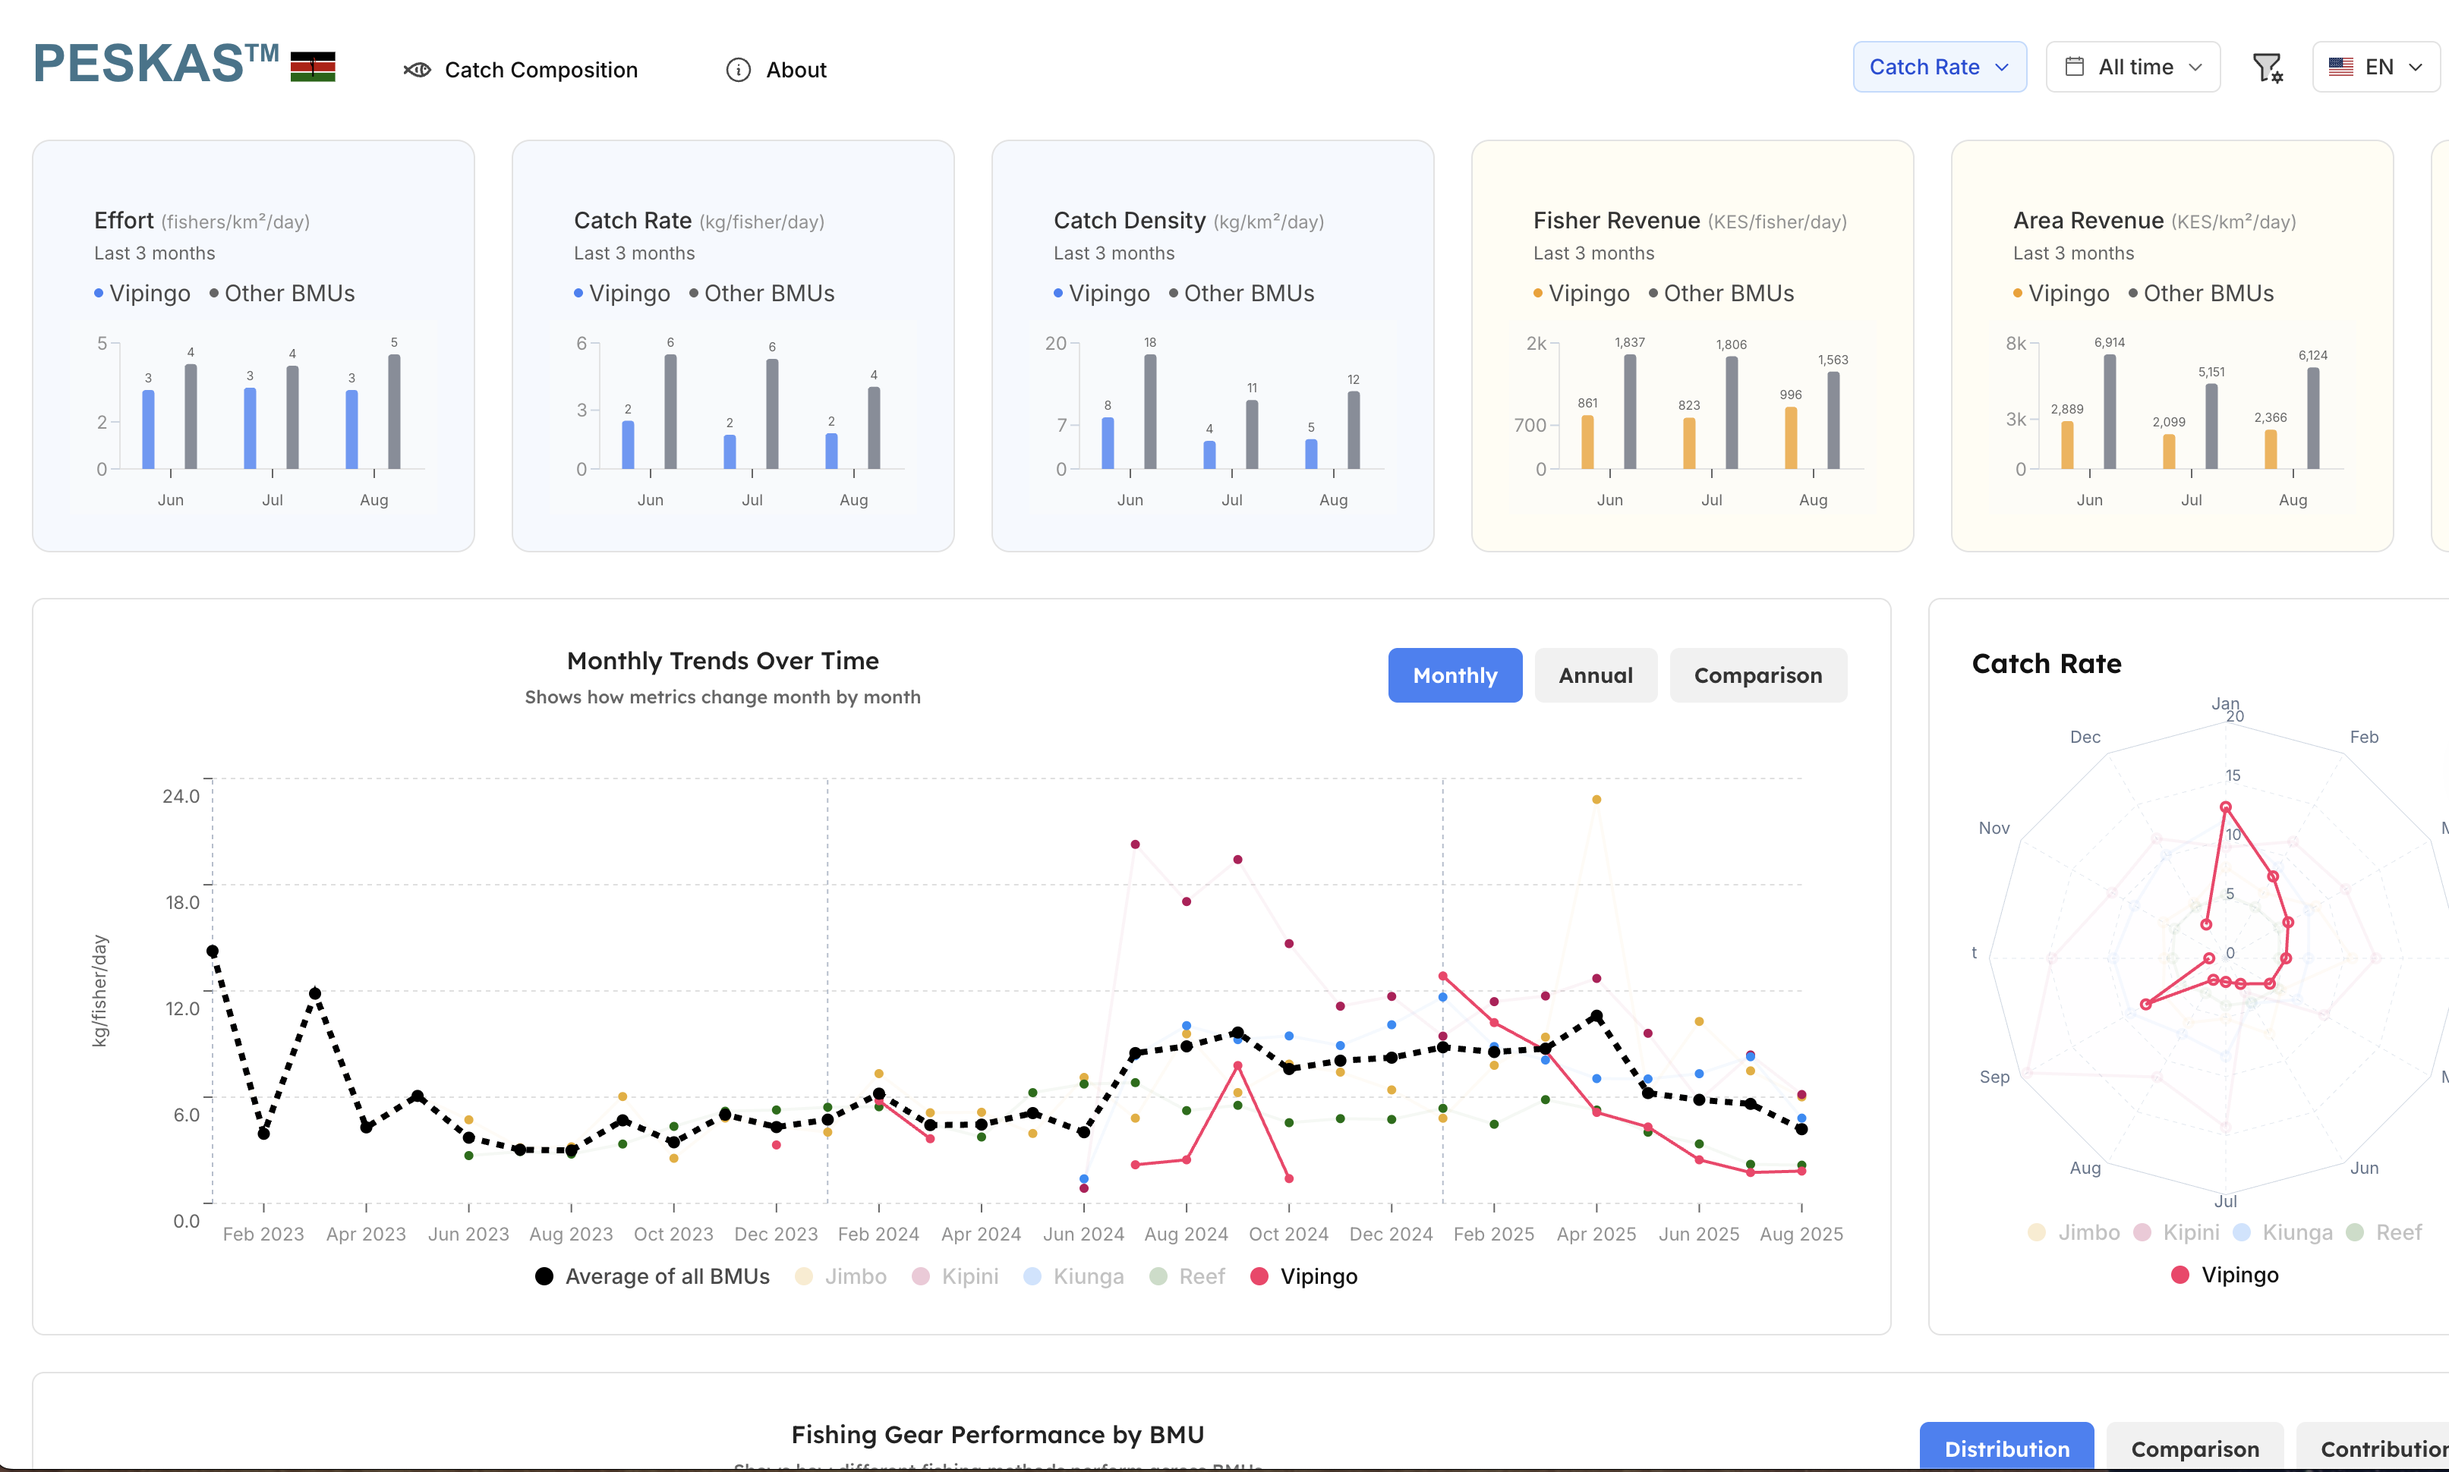
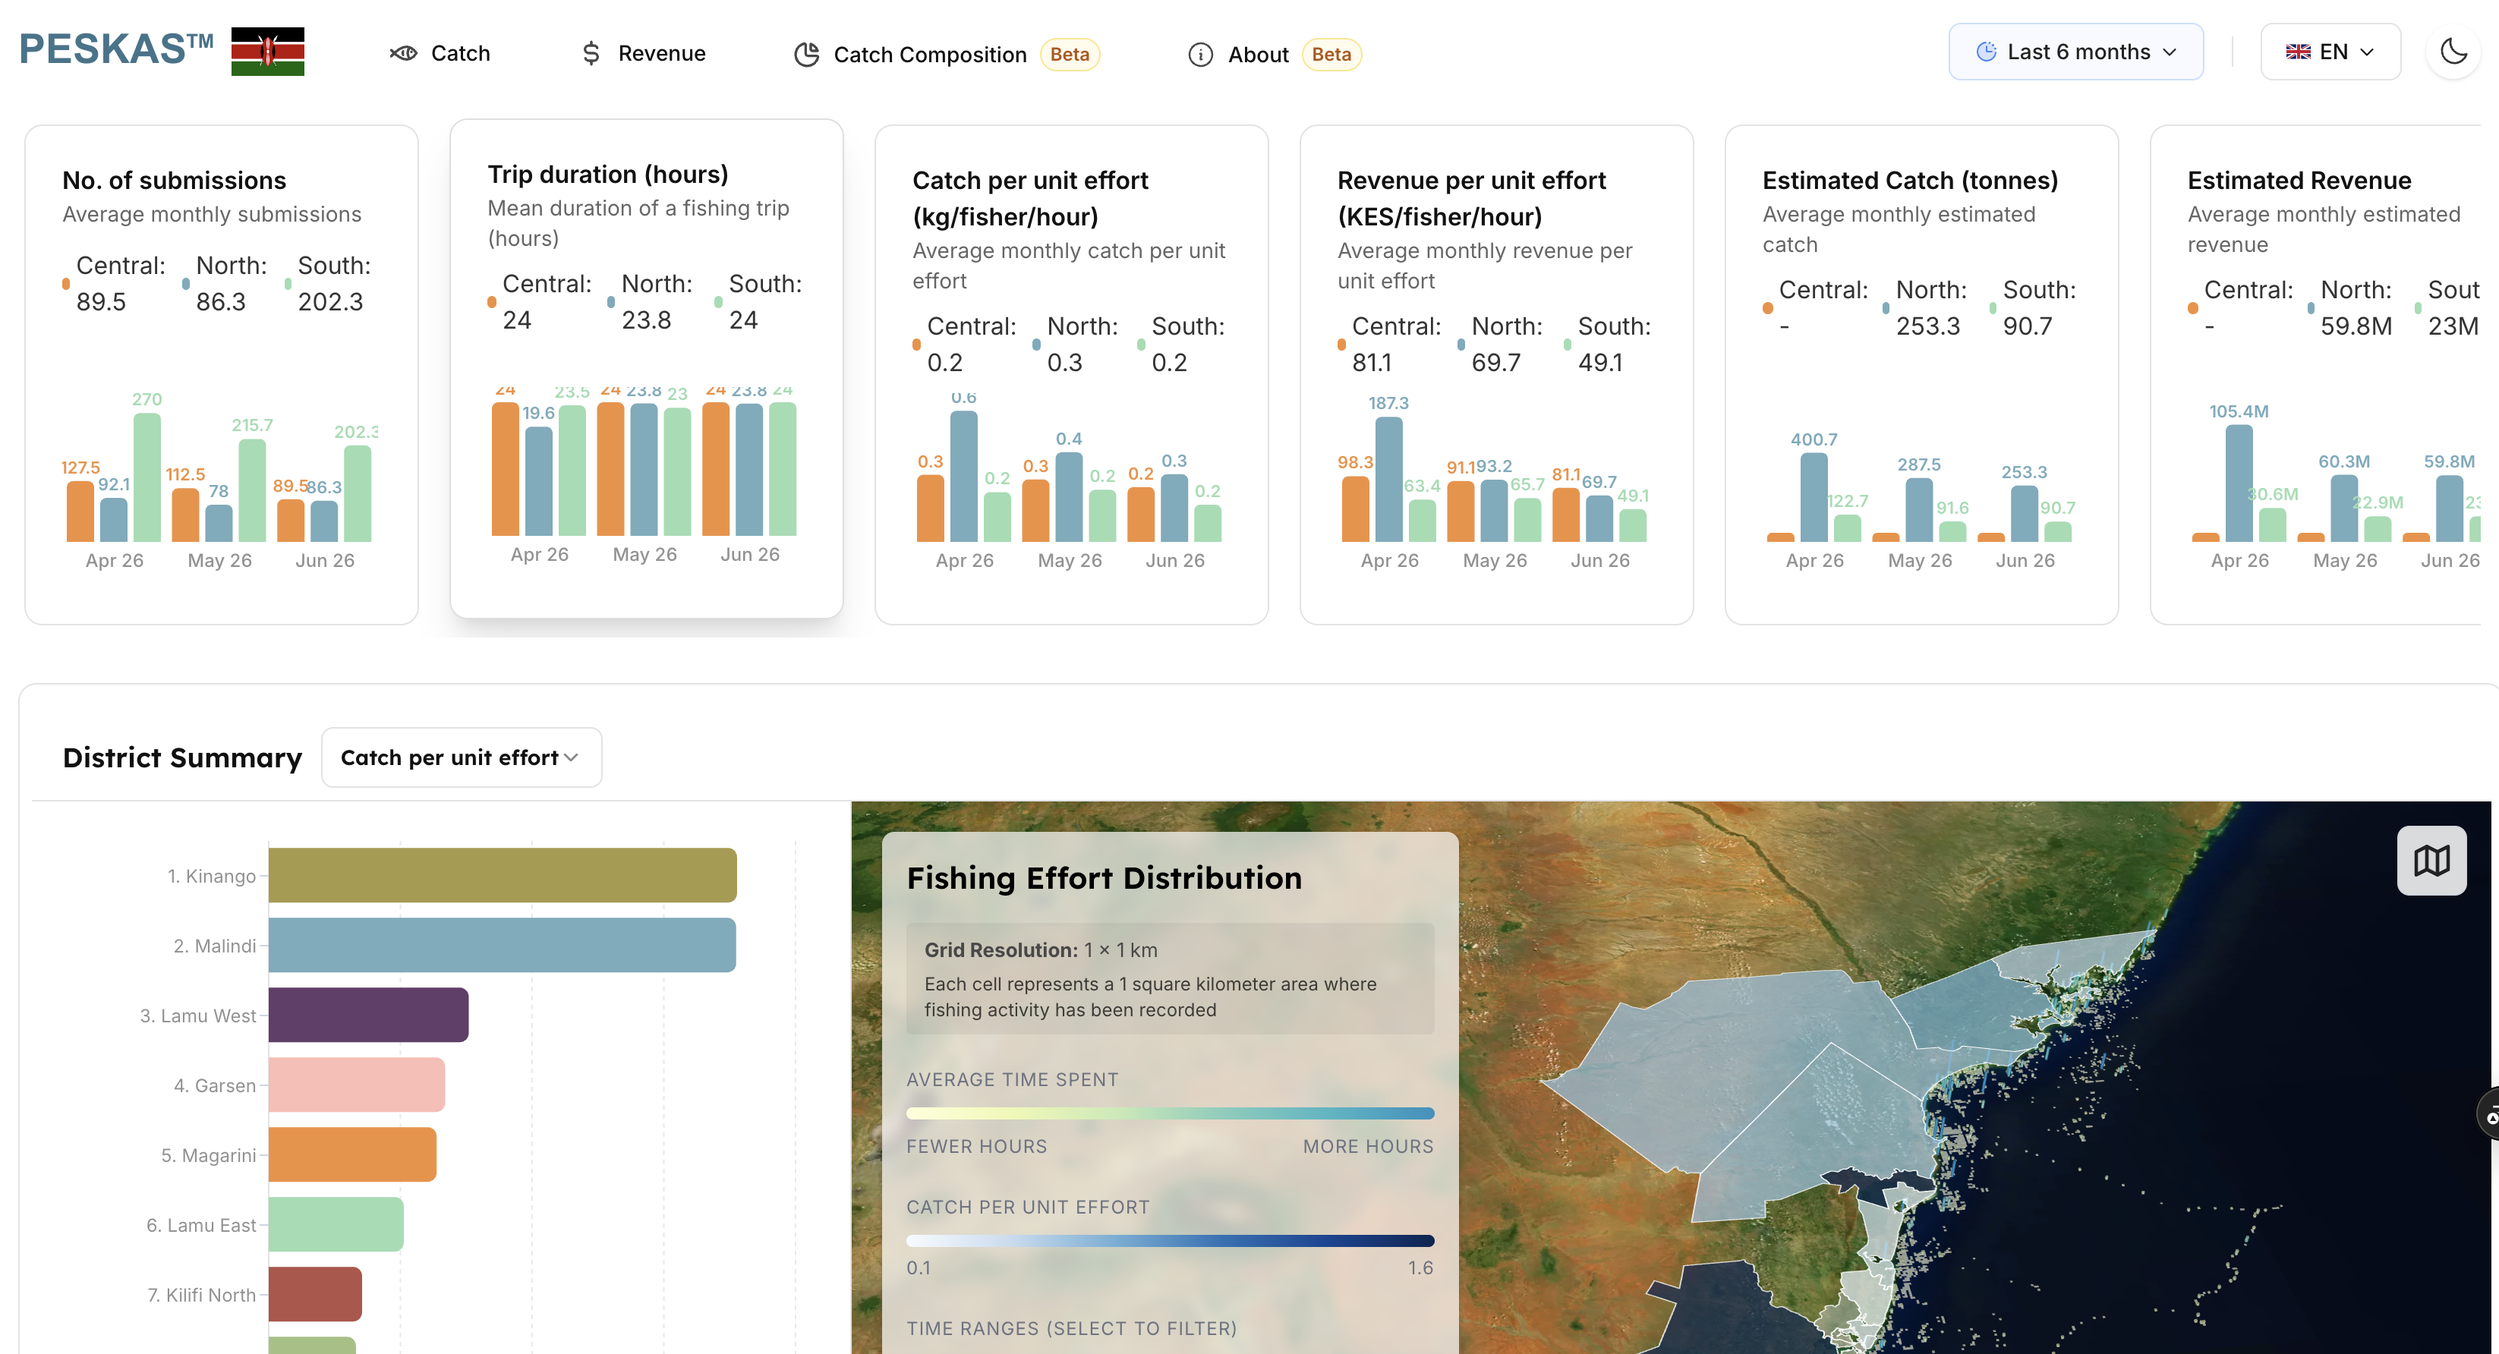
Update Kenya dashboard links across components and JSON files
- Replaced the old Kenya dashboard URL with the new link in Header, Sidebar, regions.json, settings.json, and regions.js for consistency.
- Updated the external links constant in constants.js to reflect the new URL.
- Modified the Kenya dashboard image file, indicating a change in the asset.

diff --git a/components/layout/Header.js b/components/layout/Header.js
@@ -66,7 +66,7 @@ const Header = ({ handleOpen, headerStyle }) => {
                                                     <div className="hr">
                                                         <span />
                                                     </div>
-                                                    <a href="https://digitalfisheries.kenya.peskas.org/en" target="_blank" rel="noopener noreferrer">
+                                                    <a href="https://peskas-dashboard-kenya.vercel.app/en" target="_blank" rel="noopener noreferrer">
                                                         <img src="https://upload.wikimedia.org/wikipedia/commons/4/49/Flag_of_Kenya.svg" alt="Kenyan Flag" width={20} height={13} style={{ marginRight: '5px', verticalAlign: 'middle' }} loading="lazy" />
                                                         Kenya
                                                     </a>

diff --git a/components/layout/Sidebar.js b/components/layout/Sidebar.js
@@ -80,7 +80,7 @@ const Sidebar = ({ openClass }) => {
                                                     <span />
                                                 </li>
                                                 <li>
-                                                    <a href="https://digitalfisheries.kenya.peskas.org/en" target="_blank" rel="noopener noreferrer">
+                                                    <a href="https://peskas-dashboard-kenya.vercel.app/en" target="_blank" rel="noopener noreferrer">
                                                         <img src="https://upload.wikimedia.org/wikipedia/commons/4/49/Flag_of_Kenya.svg" alt="Kenyan Flag" width={20} height={13} style={{ marginRight: '5px', verticalAlign: 'middle' }} loading="lazy" />
                                                         Kenya
                                                     </a>

diff --git a/data/regions.js b/data/regions.js
@@ -17,7 +17,7 @@ export const regions = [
         id: 3,
         title: "Kenya",
         desc: "Part of Peskas' East African expansion, the Kenya implementation focuses on coastal small-scale fisheries. Working with local communities and government partners, this initiative aims to improve fisheries data collection and management practices along Kenya's rich coastal waters, supporting both food security and sustainable livelihoods.",
-        cta: { label: "Open dashboard", href: "https://digitalfisheries.kenya.peskas.org/en" },
+        cta: { label: "Open dashboard", href: "https://peskas-dashboard-kenya.vercel.app/en" },
         image: "assets/imgs/page/homepage1/kenya-dash.png",
     },
     {

diff --git a/lib/constants.js b/lib/constants.js
@@ -17,7 +17,7 @@ export const GA_ENABLED = process.env.NODE_ENV === 'production';
 // External Links
 export const EXTERNAL_LINKS = {
     timor: 'https://timor.peskas.org/',
-    kenya: 'https://digitalfisheries.kenya.peskas.org/en',
+    kenya: 'https://peskas-dashboard-kenya.vercel.app/en',
     zanzibar: 'https://zanzibar.peskas.org',
     mozambique: 'https://mozambique-cabo-delgado-portal.vercel.app/',
     malawi: 'https://malawi.peskas.org/',
